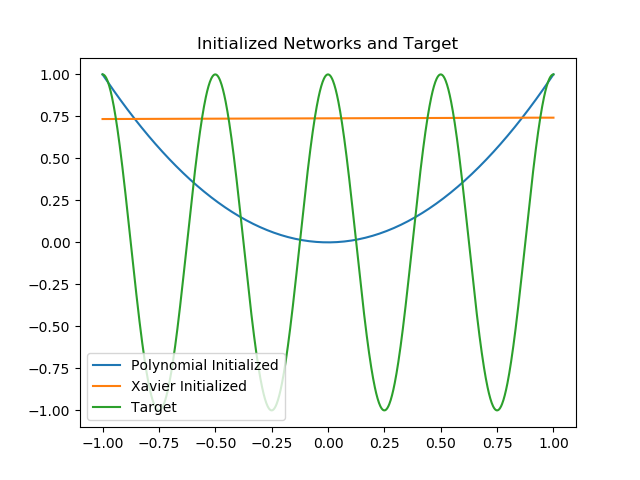
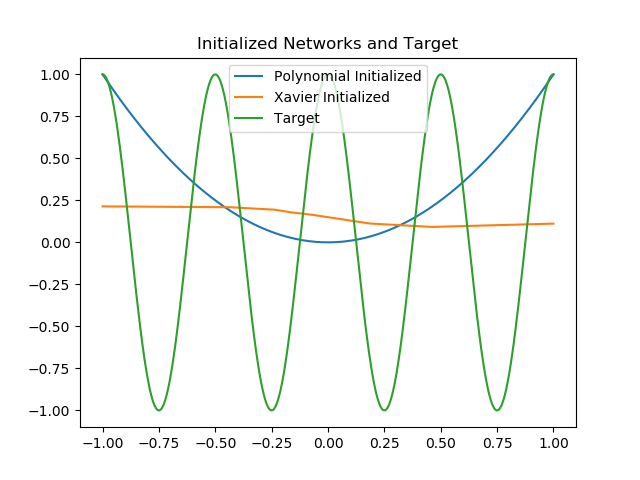
added more examples

diff --git a/x_what_does_training_do_to_knots.py b/x_what_does_training_do_to_knots.py
@@ -1,0 +1,91 @@
+# What does training do to the knots?
+"""
+We know that we can initialize the network to behave like a
+a polynomial. We also know that this initialization 
+has a particular distribution of knots at points (j/2^n)
+
+- What does training do to the knots?
+- Can I visualize the functions that the layers become
+"""
+import numpy as np
+import matplotlib.pyplot as plt
+import torch
+import torch.optim as optim
+from deep import DeepNet
+
+# instantiate the network
+a = -1
+b = 1
+L = 7
+n = 1
+net = DeepNet(L,n,a,b)
+
+# set up the sampling points 
+N = 101
+x = torch.linspace(-1,1,N)
+x = x.reshape(N,1)
+
+# load the learned parameters for the cos example
+dat_path = './data/cos_1d_deep_net.pt'
+dat_path = './data/x3_1d_deep_unnet.pt'
+dat_path = './data/rational_poly_deep_net.pt'
+net.load_state_dict(torch.load(dat_path))
+
+print('success in loading learned parameters')
+print('Printing first hidden layer biases')
+print('\n')
+print(net.hidden[0].bias.detach().numpy())
+
+# viusalize first hidden layer outputs
+print('Visualizing all four of the functions generated by the first layer')
+h1 = net.hidden[0](x).clamp(min=0)
+
+# plot the action of the first layer unit 1
+plt.plot(h1[:,0].reshape(N,1).detach().numpy())
+plt.title('Unit one of H1')
+# plot the action of the first layer unit 2
+plt.plot(h1[:,1].reshape(N,1).detach().numpy())
+plt.title('Unit two of H1')
+# plot the action of the first layer unit 3
+plt.plot(h1[:,2].reshape(N,1).detach().numpy())
+plt.title('Unit three of H1')
+# plot the action of the first layer unit 4
+plt.plot(h1[:,3].reshape(N,1).detach().numpy())
+plt.title('Unit four of H1')
+plt.show()
+
+# set hold
+hold = h1
+
+for i in range(1,L):
+    print('\n')
+    print(net.hidden[i].bias.detach().numpy())
+    # move network forward a layer
+    hnew = net.hidden[i](hold).clamp(min=0)
+
+    # plot the action of the i-1 layer unit 1
+    plt.plot(hnew[:,0].reshape(N,1).detach().numpy())
+    plt.title('Unit one of H'+str(i))
+    # plot the action of the i-1 layer unit 2
+    plt.plot(hnew[:,1].reshape(N,1).detach().numpy())
+    plt.title('Unit two of H'+str(i))
+    # plot the action of the i-1 layer unit 3
+    plt.plot(hnew[:,2].reshape(N,1).detach().numpy())
+    plt.title('Unit three of H'+str(i))
+    # plot the action of the i-1 layer unit 4
+    plt.plot(hnew[:,3].reshape(N,1).detach().numpy())
+    plt.title('Unit four of H'+str(i))
+    plt.show()
+
+    hold = hnew
+
+# plot final output
+hnew = net.hidden[L](hold)
+plt.plot(hnew.detach().numpy())
+plt.show()
+
+# plot a forward prop
+out = net(x)
+plt.plot(out.detach().numpy())
+plt.show()
+

diff --git a/plot_rational_poly_deep_net.py b/plot_rational_poly_deep_net.py
@@ -11,21 +11,22 @@ from deep import DeepNet
 # instantiate the network
 a = -1
 b = 1
-net = DeepNet(6,1,a,b)
+L = 7
+net = DeepNet(L,1,a,b)
 # this network is for uninitialized
 # case
-unnet = DeepNet(6,1,a,b)
+unnet = DeepNet(L,1,a,b)
 unnet.xavier_init()
 
 # make some input data
-N = 80
+N = 100
 points = torch.FloatTensor(N,1).uniform_(a,b)
 x = points.reshape(N,1)
 y = net(x)
 
 # sample a function of interest 
 xx = points.numpy()
-ly = np.cos(4*np.pi*(xx))
+ly = 1./(1.+20*(0.5-xx)**2)
 
 # create tensor target from data
 target = torch.tensor(ly).type(y.type())
@@ -36,7 +37,7 @@ pN = 1001
 px = torch.linspace(-1,1,pN)
 px = px.reshape(pN,1)
 p_rand_init_y = unnet(px)
-ply = np.cos(4*np.pi*(px.numpy()))
+ply = 1./(1.+20*(0.5-px)**2)
 
 # initialize network with polynomial parameters
 net.poly_init()
@@ -90,7 +91,7 @@ for epoch in range(eN,eN+eN2):
 
 p_trained_y = net(px)
 # save learned parameters of the network
-save_str = './data/cos_1d_deep_net.pt'
+save_str = './data/rational_poly_deep_net.pt'
 torch.save(net.state_dict(),save_str)
 
 ############
@@ -142,7 +143,7 @@ for epoch in range(eN,eN+eN2):
 p_unnet_trained_y = unnet(px)
 
 # save learned parameters of the network
-save_str = './data/cos_1d_deep_unnet.pt'
+save_str = './data/rational_poly_deep_unnet.pt'
 torch.save(unnet.state_dict(),save_str)
 
 ##########
@@ -156,17 +157,17 @@ plt.plot(unlosses,label='Xavier Initialized')
 plt.legend()
 plt.title('Training Losses')
 plt.xlabel('Epoch Number')
-plt.savefig('./fig/cos_1d_deep_net_both_training_losses.png')
+plt.savefig('./fig/rational_poly_deep_net_both_training_losses.png')
 
 # plot randomly initialized network
 fig0 = plt.figure(1)
 ax0 = fig0.add_subplot(1,1,1)
 ax0.plot(px.numpy(),p_poly_init_y.detach().numpy(),label='Polynomial Initialized')
 ax0.plot(px.numpy(),p_rand_init_y.detach().numpy(),label='Xavier Initialized')
-ax0.plot(px.numpy(),ply,label='Target')
+ax0.plot(px.numpy(),ply.numpy(),label='Target')
 ax0.set_title('Initialized Networks and Target')
 plt.legend()
-plt.savefig('./fig/cos_1d_deep_net_both_init.png')
+plt.savefig('./fig/rational_poly_deep_net_both_init.png')
 
 # plot trained network
 fig2 = plt.figure(3)
@@ -176,5 +177,5 @@ ax2.plot(px.numpy(),p_unnet_trained_y.detach().numpy(),label='Xavier Initialized
 ax2.scatter(x.numpy(),ly,label='Training Data')
 ax2.set_title('Trained Networks')
 plt.legend()
-plt.savefig('./fig/cos_1d_deep_net_both_trained_net.png')
+plt.savefig('./fig/rational_poly_deep_net_both_trained_net.png')
 

diff --git a/plot_x_3_deep_net.py b/plot_x_3_deep_net.py
@@ -25,7 +25,7 @@ y = net(x)
 
 # sample a function of interest 
 xx = points.numpy()
-ly = np.cos(4*np.pi*(xx))
+ly = xx**3
 
 # create tensor target from data
 target = torch.tensor(ly).type(y.type())
@@ -36,6 +36,7 @@ pN = 1001
 px = torch.linspace(-1,1,pN)
 px = px.reshape(pN,1)
 p_rand_init_y = unnet(px)
+ply = px**3
 ply = np.cos(4*np.pi*(px.numpy()))
 
 # initialize network with polynomial parameters
@@ -90,7 +91,7 @@ for epoch in range(eN,eN+eN2):
 
 p_trained_y = net(px)
 # save learned parameters of the network
-save_str = './data/cos_1d_deep_net.pt'
+save_str = './data/x3_1d_deep_net.pt'
 torch.save(net.state_dict(),save_str)
 
 ############
@@ -142,7 +143,7 @@ for epoch in range(eN,eN+eN2):
 p_unnet_trained_y = unnet(px)
 
 # save learned parameters of the network
-save_str = './data/cos_1d_deep_unnet.pt'
+save_str = './data/x3_1d_deep_unnet.pt'
 torch.save(unnet.state_dict(),save_str)
 
 ##########
@@ -156,7 +157,7 @@ plt.plot(unlosses,label='Xavier Initialized')
 plt.legend()
 plt.title('Training Losses')
 plt.xlabel('Epoch Number')
-plt.savefig('./fig/cos_1d_deep_net_both_training_losses.png')
+plt.savefig('./fig/x3_1d_deep_net_both_training_losses.png')
 
 # plot randomly initialized network
 fig0 = plt.figure(1)
@@ -166,7 +167,7 @@ ax0.plot(px.numpy(),p_rand_init_y.detach().numpy(),label='Xavier Initialized')
 ax0.plot(px.numpy(),ply,label='Target')
 ax0.set_title('Initialized Networks and Target')
 plt.legend()
-plt.savefig('./fig/cos_1d_deep_net_both_init.png')
+plt.savefig('./fig/x3_1d_deep_net_both_init.png')
 
 # plot trained network
 fig2 = plt.figure(3)
@@ -176,5 +177,5 @@ ax2.plot(px.numpy(),p_unnet_trained_y.detach().numpy(),label='Xavier Initialized
 ax2.scatter(x.numpy(),ly,label='Training Data')
 ax2.set_title('Trained Networks')
 plt.legend()
-plt.savefig('./fig/cos_1d_deep_net_both_trained_net.png')
+plt.savefig('./fig/x3_1d_deep_net_both_trained_net.png')
 
